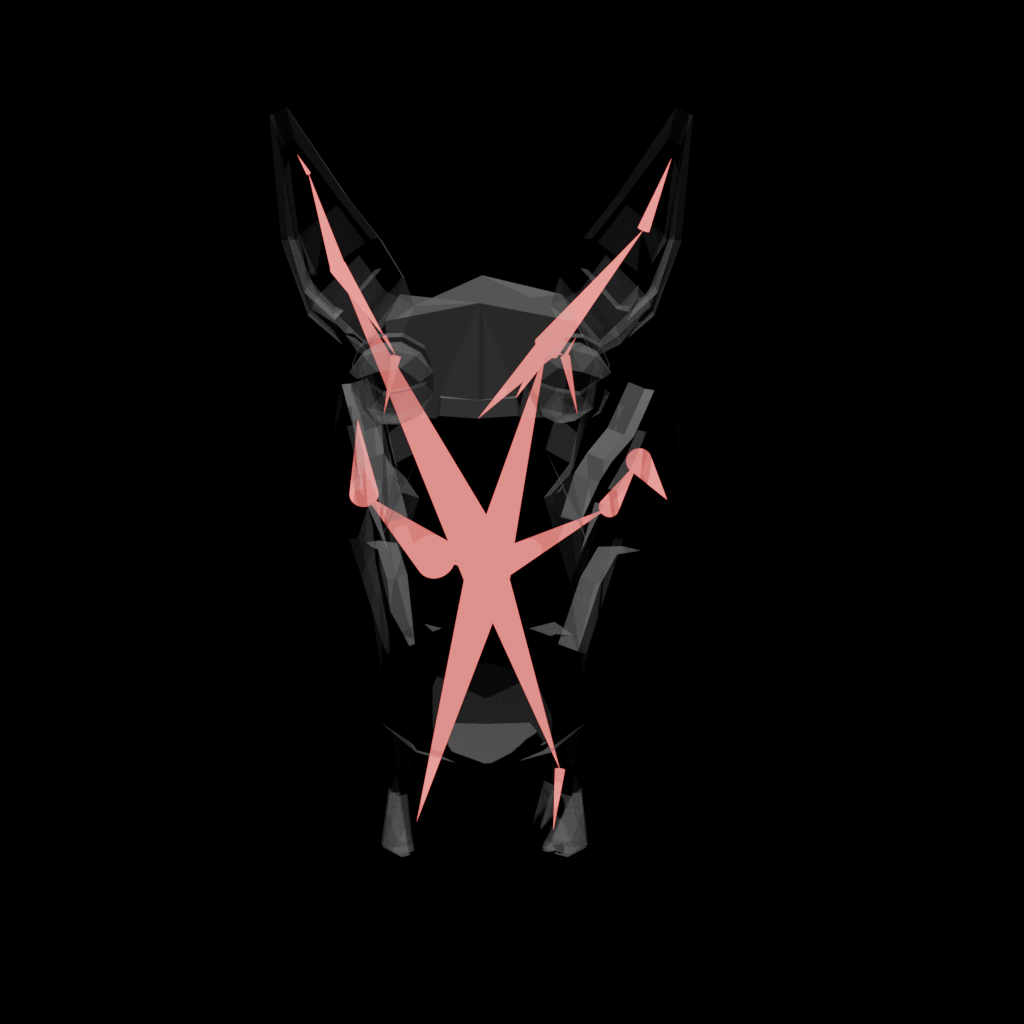
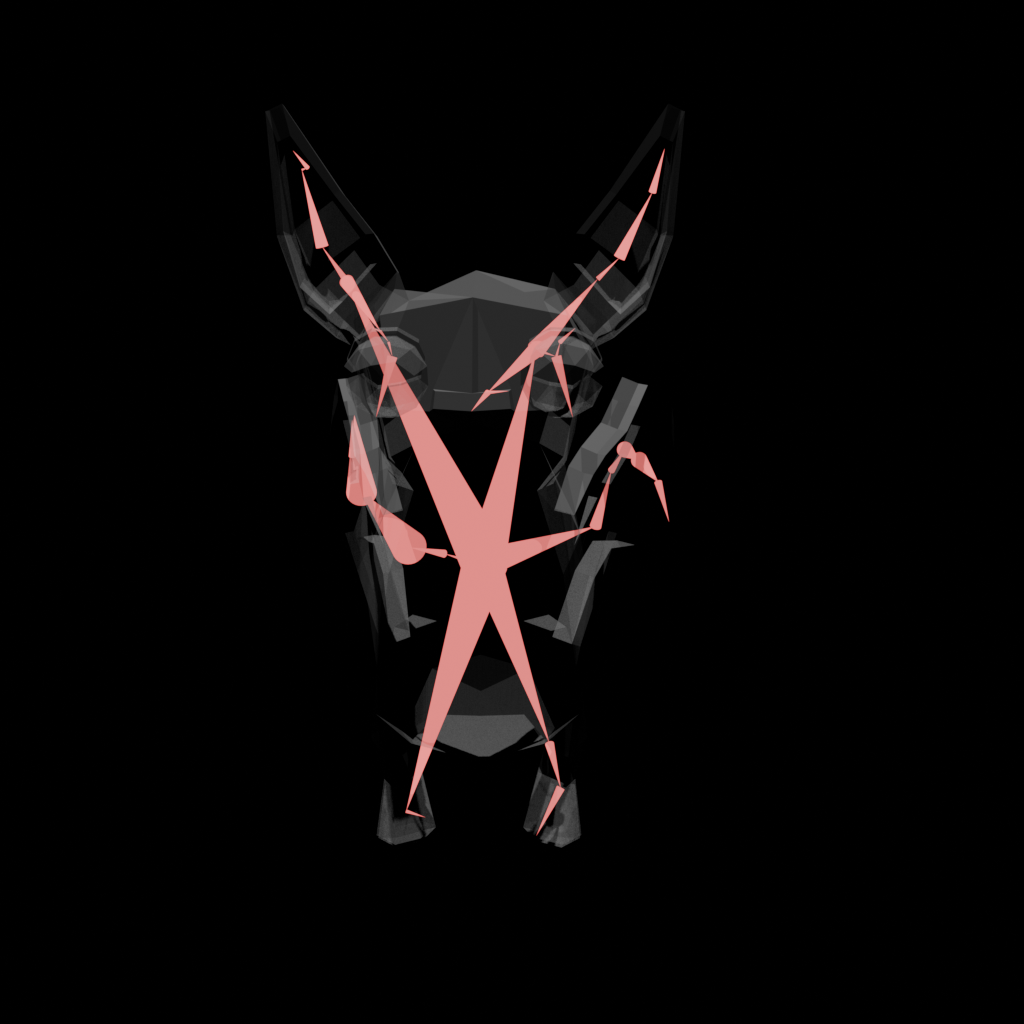
Módulo 1: cambiar _WAVEFRONT_STEP_SIZE de 2 a 1 y regenerar renders de los 3 modelos
Con step_size=2, el tronco/columna de cow_unrigged salía muy sub-muestreado
frente a las patas (diagnosticado: 3 nodos de raíz a cadera vs. 2 por
pata) y producía una arista de 4.41 que cruzaba todo el tronco de un
salto. Con step_size=1 esa arista más larga baja a 3.38 (aparece un nodo
intermedio nuevo en el tronco).

Nodos finales tras el pipeline completo (colapso casi-cero + RDP), antes
(step_size=2) -> ahora (step_size=1):
- cow_unrigged:   20 -> 28 nodos, profundidad 4 -> 5
- biped_unrigged: 182 -> 232 nodos, profundidad 25 -> 34
- bat_unrigged:   26 -> 44 nodos, profundidad 4 -> 9

El aumento de profundidad en biped/bat era esperable (más nodos en bruto
= tramos con más puntos que RDP puede conservar), no es un efecto
buscado en sí, solo consecuencia del parámetro único sin ajuste por
modelo.

Renders de depuración regenerados para los 3 modelos con el nuevo
esqueleto (mismo script _render_armature_debug.py, sin cambios).

Changed region(s): [[0.2812, 0.1562, 0.6562, 0.8438]]

diff --git a/backend/app/skeletonization.py b/backend/app/skeletonization.py
@@ -23,7 +23,13 @@ import trimesh
 # by_vertex_clusters), es adimensional y da una reducción de nodos
 # comparable en mallas de escalas muy distintas (probado sobre los 3
 # samples: cow ~9 unidades, biped ~1.8, bat ~3 — sin ajuste por modelo).
-_WAVEFRONT_STEP_SIZE = 2
+# Antes en 2: con ese valor, el tronco/columna de cow_unrigged quedaba muy
+# sub-muestreado frente a las patas (3 nodos de raíz a cadera vs. 2 por
+# pata) y producía una arista de 4.41 que atravesaba todo el tronco de un
+# salto. Con step_size=1 esa arista más larga baja a 3.38 (con un nodo
+# intermedio nuevo) y el nº de nodos en bruto de cow_unrigged pasa de 22 a
+# 48 (ver diagnóstico correspondiente antes de este cambio).
+_WAVEFRONT_STEP_SIZE = 1
 
 
 def extract_skeleton_graph(mesh_path: str) -> nx.Graph:
